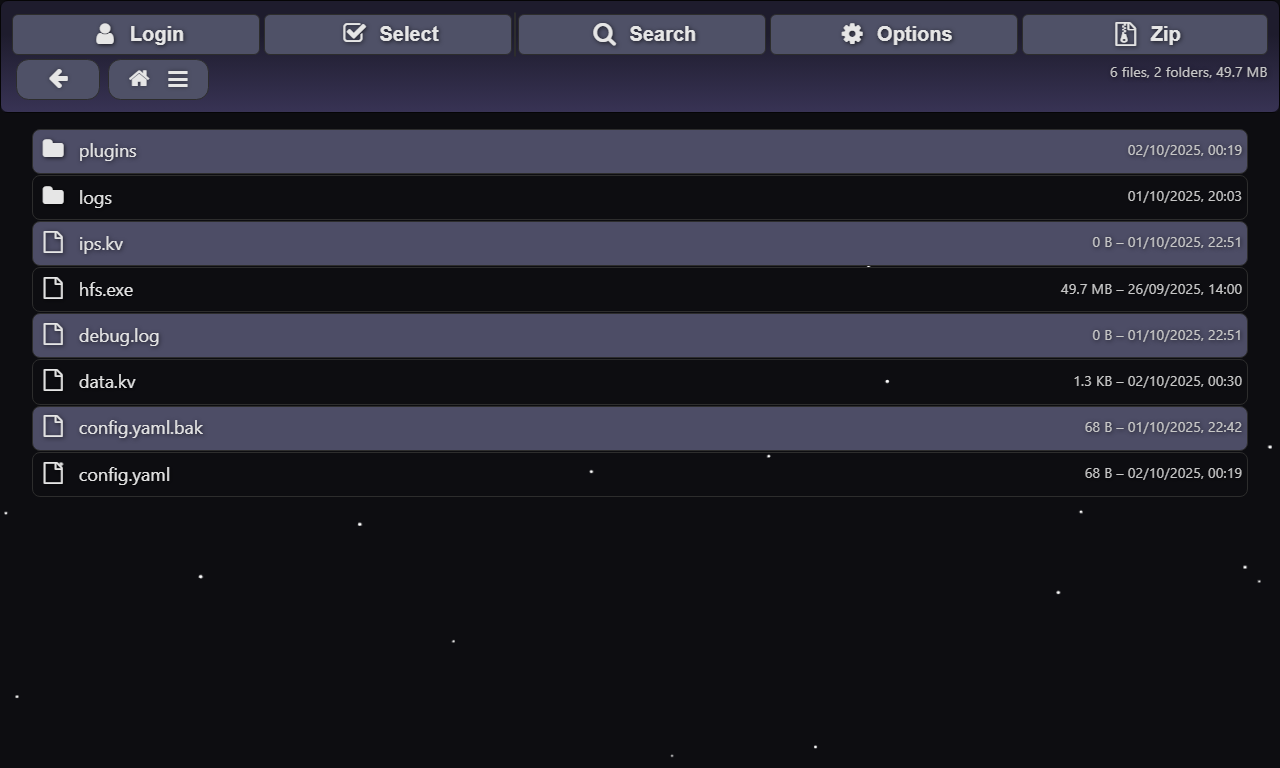
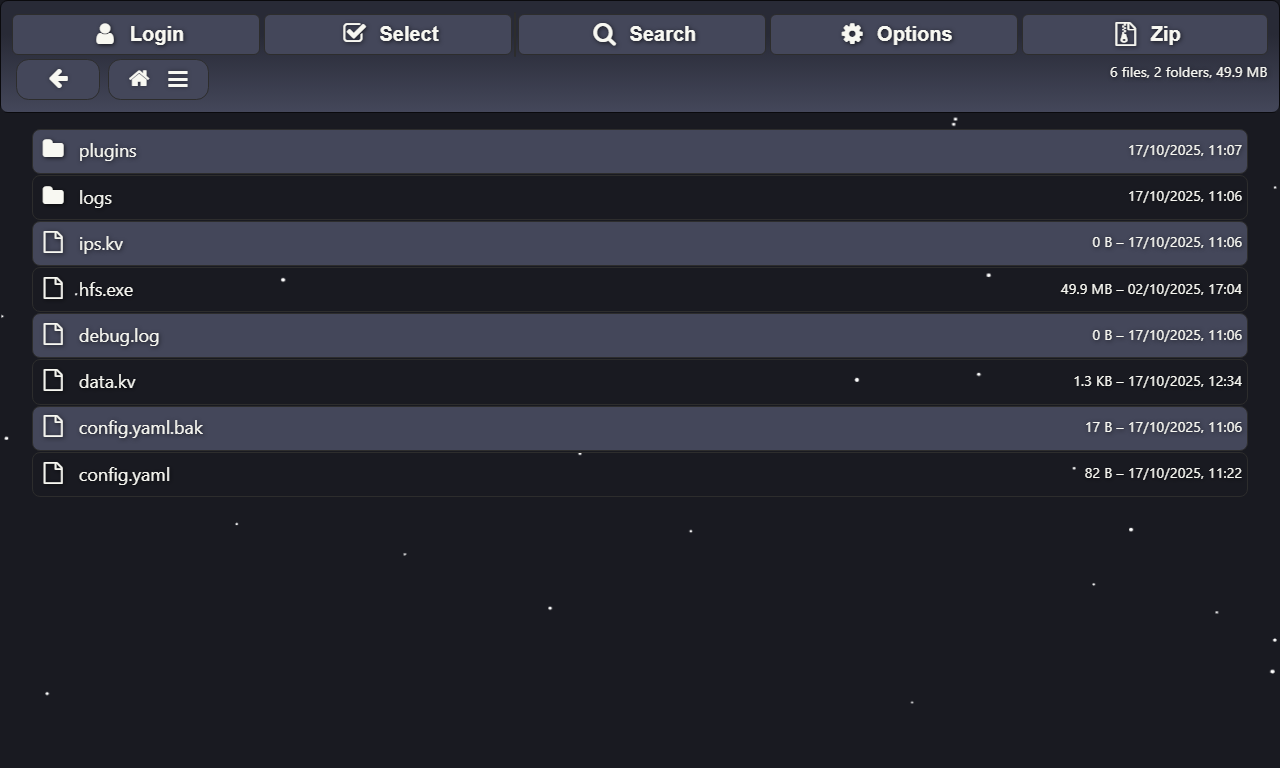
v3.2 - classic dracula colors

diff --git a/src/style.css b/src/style.css
@@ -1,33 +1,33 @@
 /* Root-level variables for theme colors and layout */
 :root {
     height: 100dvh;                                   /* Full viewport height using dynamic units */
-    --bg: rgb(33, 34, 44);                          /* Base background color */
+    --bg: rgb(40, 42, 54);                          /* Base background color */
     --text: rgb(248, 248, 242);                     /* Default text color */
-    --ghost-contrast: rgb(77, 77, 102);             /* Used for subtle contrast elements */
-    --faint-contrast: rgb(15, 17, 19);              /* Border and shadow base */
-    --faint-contrast-trans: rgba(15, 17, 19, 0.50); /* Transparent variant for overlays */
-    --mild-contrast: rgb(77, 77, 102);              /* Mid-level contrast */
+    --ghost-contrast: rgb(68, 71, 90);              /* Used for subtle contrast elements */
+    --faint-contrast: rgb(25, 26, 33);              /* Border and shadow base */
+    --faint-contrast-trans: rgba(25, 26, 33, 0.50); /* Transparent variant for overlays */
+    --mild-contrast: rgb(68, 71, 90);               /* Mid-level contrast */
     --good-contrast: rgb(230, 230, 230);            /* High contrast for text or highlights */
-    --button-bg: rgb(121, 112, 169);                /* Default button background */
+    --button-bg: rgb(98, 114, 164);                 /* Default button background */
     --button-bg-hover: rgb(255, 85, 85);            /* Button hover background */
     --button-text: rgb(248, 248, 242);              /* Button text color */
     --focus-color: rgb(80, 250, 123);               /* Focus ring or highlight color */
-    --gradient-start: rgb(81, 75, 121);             /* Header gradient start */
-    --gradient-end: rgb(116, 105, 170);             /* Header gradient end */
+    --gradient-start: rgb(68, 71, 90);              /* Header gradient start */
+    --gradient-end: rgb(98, 114, 164);              /* Header gradient end */
 }
 
 /* Overrides for dark theme variant */
 :root .theme-dark {
     color-scheme: dark;
-    --bg: rgb(13, 13, 17);
-    --text: rgb(200, 200, 200);
-    --good-contrast: rgba(230, 230, 230, 0.98);
-    --button-bg: rgb(79, 81, 103);
-    --button-bg-hover: rgb(164, 54, 54);
-    --button-text: rgb(230, 230, 230);
-    --focus-color: rgb(55, 173, 85);
-    --gradient-start: rgb(30, 28, 45);
-    --gradient-end: rgb(56, 51, 84);
+    --bg: rgb(25, 26, 33);
+    --text: rgb(248, 248, 242);
+    --good-contrast: rgba(248, 248, 242, 0.98);
+    --button-bg: rgb(68, 71, 90);
+    --button-bg-hover: rgb(255, 85, 85);
+    --button-text: rgb(248, 248, 242);
+    --focus-color: rgb(80, 250, 123);
+    --gradient-start: rgb(40, 42, 54);
+    --gradient-end: rgb(68, 71, 90);
 }
 
 /* Link color override for dark theme */
@@ -63,7 +63,7 @@ body {
     flex-direction: column;
 }
 
-/* Ensure child divs inside root don’t overflow */
+/* Ensure child divs inside root don't overflow */
 #root > div {
     max-width: 100%;
 }
@@ -169,7 +169,7 @@ a {
         padding: .5%;
         min-width: calc((100vw - 800px) / 1.2);
         box-sizing: border-box;
-        background: rgba(15, 17, 17, 0.50);
+        background: rgba(25, 26, 33, 0.50);
         border-radius: 8px;
         border: 1px solid var(--faint-contrast);
         z-index: 1;

diff --git a/dist/public/style.css b/dist/public/style.css
@@ -1,31 +1,31 @@
 :root {
     height: 100dvh;
-    --bg: rgb(33, 34, 44);
+    --bg: rgb(40, 42, 54);
     --text: rgb(248, 248, 242);
-    --ghost-contrast: rgb(77, 77, 102);
-    --faint-contrast: rgb(15, 17, 19);
-    --faint-contrast-trans: rgba(15, 17, 19, 0.50);
-    --mild-contrast: rgb(77, 77, 102);
+    --ghost-contrast: rgb(68, 71, 90);
+    --faint-contrast: rgb(25, 26, 33);
+    --faint-contrast-trans: rgba(25, 26, 33, 0.50);
+    --mild-contrast: rgb(68, 71, 90);
     --good-contrast: rgb(230, 230, 230);
-    --button-bg: rgb(121, 112, 169);
+    --button-bg: rgb(98, 114, 164);
     --button-bg-hover: rgb(255, 85, 85);
     --button-text: rgb(248, 248, 242);
     --focus-color: rgb(80, 250, 123);
-    --gradient-start: rgb(81, 75, 121);
-    --gradient-end: rgb(116, 105, 170);
+    --gradient-start: rgb(68, 71, 90);
+    --gradient-end: rgb(98, 114, 164);
 }
 
 :root .theme-dark {
     color-scheme: dark;
-    --bg: rgb(13, 13, 17);
-    --text: rgb(200, 200, 200);
-    --good-contrast: rgba(230, 230, 230, 0.98);
-    --button-bg: rgb(79, 81, 103);
-    --button-bg-hover: rgb(164, 54, 54);
-    --button-text: rgb(230, 230, 230);
-    --focus-color: rgb(55, 173, 85);
-    --gradient-start: rgb(30, 28, 45);
-    --gradient-end: rgb(56, 51, 84);
+    --bg: rgb(25, 26, 33);
+    --text: rgb(248, 248, 242);
+    --good-contrast: rgba(248, 248, 242, 0.98);
+    --button-bg: rgb(68, 71, 90);
+    --button-bg-hover: rgb(255, 85, 85);
+    --button-text: rgb(248, 248, 242);
+    --focus-color: rgb(80, 250, 123);
+    --gradient-start: rgb(40, 42, 54);
+    --gradient-end: rgb(68, 71, 90);
 }
 
 :root .theme-dark a {
@@ -152,7 +152,7 @@ a {
         padding: .5%;
         min-width: calc((100vw - 800px) / 1.2);
         box-sizing: border-box;
-        background: rgba(15, 17, 17, 0.50);
+        background: rgba(25, 26, 33, 0.50);
         border-radius: 8px;
         border: 1px solid var(--faint-contrast);
         z-index: 1;

diff --git a/dist/plugin.js b/dist/plugin.js
@@ -1,9 +1,9 @@
-exports.version = 3.1
-exports.description = "Dracula theme by 8gudbits"
-exports.isTheme = "dark"
-exports.preview = "https://github.com/8gudbits/hfs-dracula-theme/raw/main/preview.png"
-exports.apiRequired = 1
 exports.repo = "8gudbits/hfs-dracula-theme"
+exports.version = 3.2
+exports.description = "Dracula theme by 8gudbits"
+exports.preview = "https://github.com/8gudbits/hfs-dracula-theme/raw/main/preview.png"
+exports.isTheme = "dark"
+exports.apiRequired = 1
 exports.frontend_css = "style.css"
 exports.frontend_js = "main.js"
 exports.config = {
